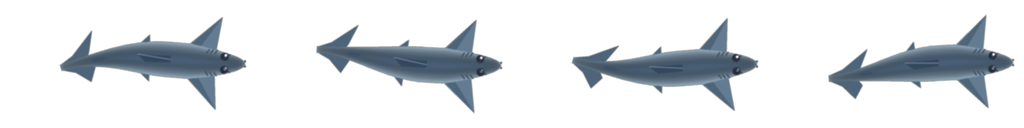
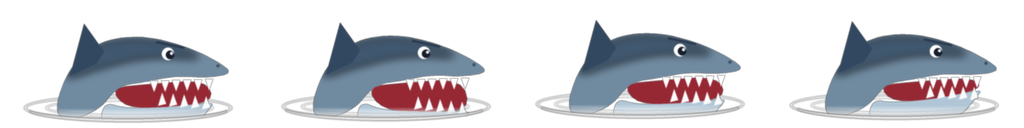
상어

diff --git a/index.html b/index.html
@@ -96,6 +96,7 @@ const CONFIG = {
       rx: 0.55, ry: 0.38,                            // 얕은 물 판정 타원 반지름 (개구리 한 마리 크기의 돌)
       gap: [0.3, 1.0],                               // 옆 돌 가장자리와의 간격 범위
       jitterY: 12,
+      autoReveal: 30,                                // 아무도 밟지 않아도 경기 시작 뒤 이 시간(초)이 지나면 그림자가 드러난다
       revealTime: 0.6                                // 첫 접촉 뒤 그림자가 나타나는 시간(초)
     }
   },
@@ -478,7 +479,7 @@ function buildWorld(rng, opt, lenient) {
       if (lo > hi) { if (!lenient) return null; lo = hi = (lo + hi) / 2; }
       x = lo + rng() * (hi - lo);
     }
-    const base = { x, y, rx, ry, row: i, bob: 0, slippery: false };
+    const base = { x, y, rx, ry, row: i, bob: 0, slippery: false, slipped: false };
     const safe = Object.assign({ idx: stones.length }, base);                  // 이 줄의 "정상" 돌 (다음 돌과의 연결 기준)
     stones.push(safe);
 
@@ -722,7 +723,7 @@ function startSlip(f, s) {
              dur: clamp(dist / 190, O.slideTime[0], O.slideTime[1]) };
   setFrogState(f, 'slip');
   addFx('dust', f.x, f.y, 0.35);
-  s.bob = 1;
+  s.bob = 1; s.slipped = true;                         // 한 번 미끄러진 뒤부터 미끄러운 돌의 정체가 드러난다
   Sfx.slip();
 }
 
@@ -1020,6 +1021,7 @@ function update(dt) {
   } else if (G.state === 'playing') {
     G.elapsed += dt; G.goT += dt;
   }
+  if (G.shallow && !G.shallow.revealed && G.state === 'playing' && G.elapsed >= CONFIG.options.shallow.autoReveal) revealShallow();
   updateShark(dt);                                     // 착지 판정에 쓰이므로 개구리보다 먼저
   updateParticles(dt);
   if (G.shallow && G.shallow.revealed) G.shallow.revealT += dt;
@@ -1125,10 +1127,11 @@ function drawStone(s, tid, preview) {
   const bob = s.bob > 0 ? 1 - Math.sin((1 - s.bob) * Math.PI) * 0.07 : 1;
   const rx = s.rx * vs * bob, ry = s.ry * vs * bob;
   ctx.save(); ctx.fillStyle = 'rgba(0,40,60,0.24)'; ell(s.x + 3, s.y + 6, rx, ry); ctx.fill(); ctx.restore();   // 그림자는 항상 코드로
-  if (!drawSprite(s.slippery ? 'stone_slippery' : 'stone', s.x, s.y, { w: rx * 2, h: ry * 2, theme: tid })) {
-    stonePlaceholder(s.x, s.y, rx, ry, theme(tid).pal, s.slippery, s.idx || 0);
+  const looksSlippery = s.slippery && s.slipped;       // 미끄러지기 전까지는 일반 돌과 똑같이 보인다
+  if (!drawSprite(looksSlippery ? 'stone_slippery' : 'stone', s.x, s.y, { w: rx * 2, h: ry * 2, theme: tid })) {
+    stonePlaceholder(s.x, s.y, rx, ry, theme(tid).pal, looksSlippery, s.idx || 0);
   }
-  if (s.slippery && !preview) drawGlints(s, rx, ry);
+  if (looksSlippery && !preview) drawGlints(s, rx, ry);
 }
 
 /* 얕은 물: 첫 접촉 뒤에만 희미한 그림자가 보인다 (그 전에는 아무것도 그리지 않음) */
@@ -1143,21 +1146,25 @@ function drawShallow() {
   ctx.restore();
 }
 
+/* 상어 임시 그래픽: 입을 벌린 머리만 수면 위로 내민 모습 (오른쪽을 봄, s.dir로 뒤집힘) */
 function sharkPlaceholder(s, pulse) {
-  const L = s.rx * 1.3 * pulse, B = s.ry * 1.05 * pulse, wob = Math.sin(G.time * 9) * B * 0.35;
-  ctx.save(); ctx.translate(s.px, s.py); ctx.scale(s.dir, 1); ctx.globalAlpha = 0.95;
-  const g = ctx.createLinearGradient(0, -B, 0, B); g.addColorStop(0, '#53667a'); g.addColorStop(1, '#8aa0b2');
-  ctx.fillStyle = g; ctx.strokeStyle = '#2f3f50'; ctx.lineWidth = 2; ctx.lineJoin = 'round';
-  ctx.beginPath(); ctx.moveTo(L, 0);
-  ctx.bezierCurveTo(L * 0.5, -B, -L * 0.4, -B * 0.8, -L * 0.8, -B * 0.12 + wob * 0.3);
-  ctx.lineTo(-L * 1.15, -B * 0.85 + wob); ctx.lineTo(-L * 0.98, wob * 0.5); ctx.lineTo(-L * 1.15, B * 0.85 + wob); ctx.lineTo(-L * 0.8, B * 0.12 + wob * 0.3);
-  ctx.bezierCurveTo(-L * 0.4, B * 0.8, L * 0.5, B, L, 0); ctx.closePath(); ctx.fill(); ctx.stroke();
-  ctx.fillStyle = '#3d4f61';
-  for (const sd of [-1, 1]) { ctx.beginPath(); ctx.moveTo(L * 0.3, sd * B * 0.55); ctx.lineTo(-L * 0.05, sd * B * 1.35); ctx.lineTo(-L * 0.15, sd * B * 0.55); ctx.closePath(); ctx.fill(); ctx.stroke(); }
-  ctx.beginPath(); ctx.moveTo(L * 0.2, 0); ctx.lineTo(-L * 0.3, -B * 0.2); ctx.lineTo(-L * 0.5, 0); ctx.lineTo(-L * 0.3, B * 0.2); ctx.closePath(); ctx.fill(); ctx.stroke();   // 등지느러미
-  ctx.fillStyle = '#10202c';
-  for (const sd of [-1, 1]) { ctx.beginPath(); ctx.arc(L * 0.68, sd * B * 0.38, 2, 0, TAU); ctx.fill(); }
+  const L = s.rx * 1.25 * pulse, B = s.ry * 1.5 * pulse, open = (0.35 + 0.25 * Math.sin(G.time * 5)) * B;
+  ctx.save(); ctx.translate(s.px, s.py + B * 0.5); ctx.scale(s.dir, 1);
+  ctx.lineJoin = 'round'; ctx.lineWidth = 2; ctx.strokeStyle = '#2f3f50';
+  ctx.fillStyle = '#7088a0';                                                   // 머리
+  ctx.beginPath(); ctx.moveTo(-L * 0.7, 0); ctx.quadraticCurveTo(-L * 0.5, -B * 1.5, L * 0.1, -B * 1.4);
+  ctx.quadraticCurveTo(L * 0.8, -B * 1.2, L, -B * 0.3); ctx.lineTo(L * 0.1, -B * 0.1); ctx.lineTo(-L * 0.6, 0); ctx.closePath(); ctx.fill(); ctx.stroke();
+  ctx.fillStyle = '#962834';                                                   // 입 안
+  ctx.beginPath(); ctx.moveTo(-L * 0.2, -B * 0.1); ctx.lineTo(L, -B * 0.3); ctx.lineTo(L * 0.9, open); ctx.lineTo(-L * 0.1, open * 0.5); ctx.closePath(); ctx.fill();
+  ctx.fillStyle = '#b0c4d4';                                                   // 아랫턱
+  ctx.beginPath(); ctx.moveTo(-L * 0.3, open * 0.4); ctx.lineTo(L * 0.9, open); ctx.lineTo(L * 0.7, open + B * 0.35); ctx.lineTo(-L * 0.4, B * 0.5); ctx.closePath(); ctx.fill(); ctx.stroke();
+  ctx.fillStyle = '#fff';                                                      // 이빨
+  for (let i = 0; i < 5; i++) { const x = L * (0.15 + i * 0.16); ctx.beginPath(); ctx.moveTo(x, -B * 0.2); ctx.lineTo(x + L * 0.1, -B * 0.22); ctx.lineTo(x + L * 0.05, B * 0.05); ctx.fill(); }
+  ctx.beginPath(); ctx.arc(L * 0.3, -B * 0.85, B * 0.22, 0, TAU); ctx.fill(); ctx.fillStyle = '#10202c';   // 눈
+  ctx.beginPath(); ctx.arc(L * 0.33, -B * 0.83, B * 0.12, 0, TAU); ctx.fill();
   ctx.restore();
+  ctx.save(); ctx.strokeStyle = 'rgba(255,255,255,0.8)'; ctx.lineWidth = 2.5;  // 수면 물보라
+  ell(s.px, s.py + B * 0.5, L * 1.05, B * 0.3); ctx.stroke(); ctx.restore();
 }
 
 function drawShark() {
@@ -1172,8 +1179,8 @@ function drawShark() {
   }
   ctx.restore();
   ctx.save(); ctx.globalAlpha = 0.16; ctx.fillStyle = '#031a28'; ell(s.px + 2, s.py + 6, s.rx * 1.15 * pulse, s.ry * 1.1 * pulse); ctx.fill(); ctx.restore();   // 물속 그림자(눈에 잘 띄도록)
-  const w = s.rx * 2 * 1.3 * pulse;
-  if (!drawSprite('shark', s.px, s.py, { w, h: w / 2, sx: s.dir, alpha: 0.96 })) sharkPlaceholder(s, pulse);
+  const w = s.rx * 2 * 1.4 * pulse;
+  if (!drawSprite('shark', s.px, s.py, { w, h: w / 2, sx: s.dir })) sharkPlaceholder(s, pulse);
 }
 
 /* 계절 입자: 'twinkle'(반짝임)은 물 위, 'fall'(꽃잎·낙엽·눈)은 개구리 위에 그린다 */

diff --git a/sw.js b/sw.js
@@ -3,7 +3,7 @@
  * - 페이지(index.html): 네트워크 우선(3초 제한) → 실패하면 캐시 (업데이트가 바로 반영됨)
  * - 그 외 같은 출처 파일(assets/ 스프라이트 등): 캐시 먼저 보여주고 뒤에서 갱신(stale-while-revalidate)
  * 새 버전을 배포할 때는 아래 VERSION 값을 올리세요. */
-const VERSION = 'v1.1.0';
+const VERSION = 'v1.1.1';
 const CACHE = 'frog-jump-' + VERSION;
 const PRECACHE = [
   './',

diff --git a/assets/README.md b/assets/README.md
@@ -13,7 +13,7 @@
 | `island_start.webp` | 아래(출발) 섬. **위쪽 가장자리가 해안선**, 위는 투명 | 1080×340 |
 | `island_goal.webp` | 위(도착) 섬. **아래쪽 가장자리가 해안선**, 결승선(체크무늬) 포함 | 1080×220 |
 | `stone.png` | 돌 (타원에 맞춰 늘려 그려짐, 3:1 권장, 그림자는 코드가 그림) | 600×200 |
-| `stone_slippery.png` | 미끄러운 돌 (한눈에 젖은/얼음 느낌이 나게) | 600×200 |
+| `stone_slippery.png` | 미끄러운 돌 (젖은/얼음 느낌). 한 번 미끄러진 뒤에만 표시되고 그 전에는 `stone.png`로 보임 | 600×200 |
 | `shallow.png` | 얕은 물을 처음 밟은 뒤 나타나는 희미한 그림자 | 240×160 |
 | `particles.png` | 계절 입자 4종을 가로로 이어 붙인 시트 (꽃잎/반짝임/낙엽/눈) | 256×64 (64×64 × 4) |
 | `icon.png` | 설정 화면의 계절 아이콘 | 96×96 |
@@ -31,7 +31,7 @@
 ## 2) 공통 이미지 — `assets/`
 | 경로 | 설명 | 권장 크기 |
 |---|---|---|
-| `shark.png` | 상어. **오른쪽을 보는** 4프레임 시트(가로로 이어 붙임). 왼쪽으로 갈 땐 코드가 뒤집음 | 1024×128 (256×128 × 4) |
+| `shark.png` | 상어. **입 벌린 머리만 수면 위로 내민, 오른쪽을 보는** 4프레임 시트(수면은 이미지 아래쪽에 포함)(가로로 이어 붙임). 왼쪽으로 갈 땐 코드가 뒤집음 | 1024×128 (256×128 × 4) |
 | `frogs/<id>/<상태>.png` | 개구리. id: `balanced` `power` `precise` `leaper` `steady`, 상태: `idle` `charge` `jump` `land` `splash` `slip` `win` `lose` (`idle` 하나만 있어도 전부 대체) | 128×128, **위쪽을 보는 모양** |
 | `fx/shadow.png` `fx/splash.png` `fx/ripple.png` `fx/dust.png` `fx/confetti.png` | 이펙트 (splash 8프레임, ripple 6, dust 5, confetti 4 — 가로로 이어 붙임) | 프레임당 약 140×110 |
 | `ui/gauge_bg.png` `ui/gauge_fill.png` | 차징 게이지 | 64×12 |

diff --git a/README.md b/README.md
@@ -26,9 +26,9 @@
 
 ## 게임 옵션과 테마
 타이틀 → 개구리 고르기 → **게임 설정** 화면에서 시작 전에 고릅니다 (선택은 기기에 저장).
-- **상어**: 위쪽 물속에 개구리 크기의 상어가 좌우로 헤엄칩니다. 착지 순간 상어 몸 안이면 즉시 패배(상대 승리).
-- **미끄러운 돌**: 위쪽 돌 한 줄이 쌍둥이 돌이 되고, 한쪽은 미끄러워 착지해도 미끄러져 빠집니다.
-- **얕은 물**: 위쪽 어딘가에 눈에 안 보이는 개구리 크기의 돌 판정 영역. 첫 접촉 뒤 희미한 그림자가 나타납니다.
+- **상어**: 위쪽 물속에서 입을 벌린 머리만 내민 개구리 크기의 상어가 좌우로 움직입니다. 착지 순간 상어 몸 안이면 즉시 패배(상대 승리).
+- **미끄러운 돌**: 위쪽 돌 한 줄이 쌍둥이 돌이 되고, 한쪽은 미끄러워 착지해도 미끄러져 빠집니다. 한 번 미끄러지기 전까지는 일반 돌과 똑같이 보이고, 미끄러진 뒤에 정체가 드러납니다.
+- **얕은 물**: 위쪽 어딘가에 눈에 안 보이는 개구리 크기의 돌 판정 영역. 첫 접촉 뒤(또는 경기 시작 30초 뒤) 희미한 그림자가 나타납니다.
 - 켜진 옵션은 맵 위쪽 절반의 **서로 다른 돌 줄**에 하나씩만 배치됩니다.
 - **테마**: 봄·여름·가을·겨울. 이미지는 `assets/themes/<id>/`에서 교체하거나 새 테마를 추가할 수 있습니다.
 
